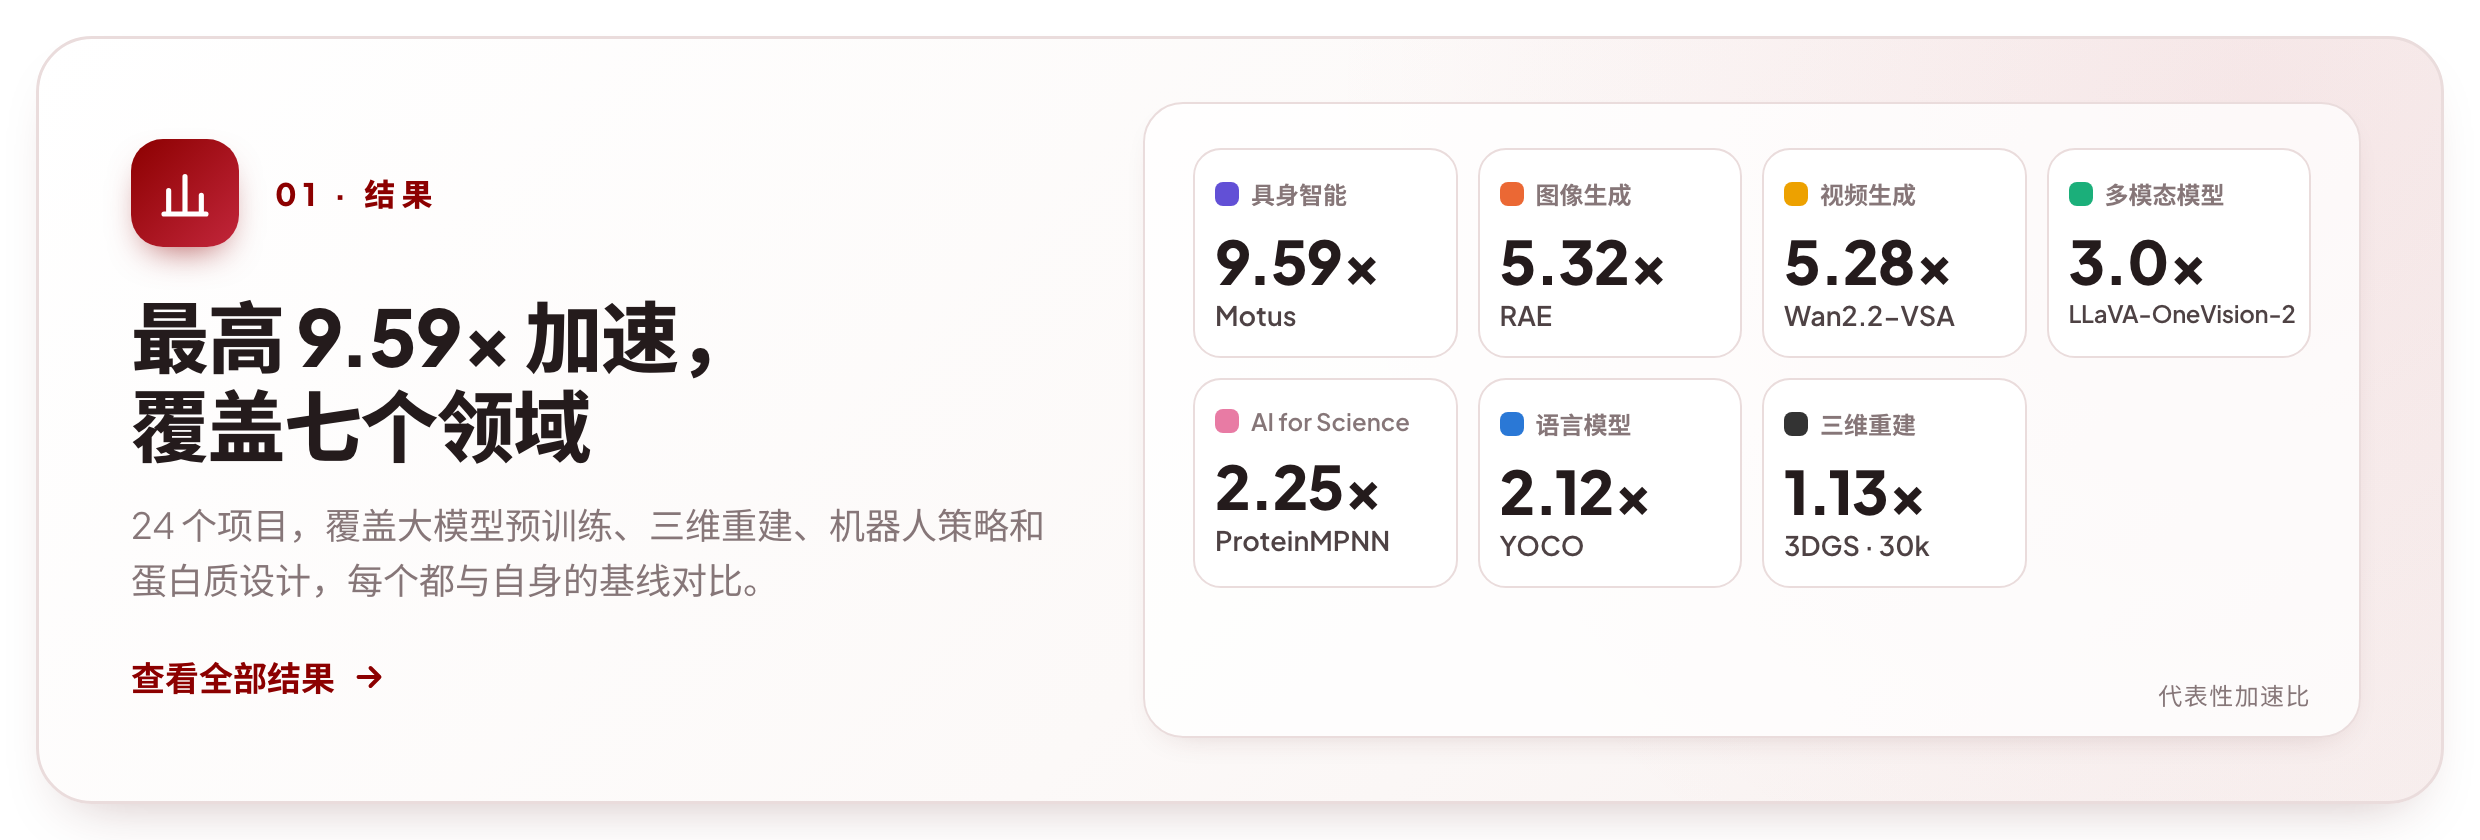
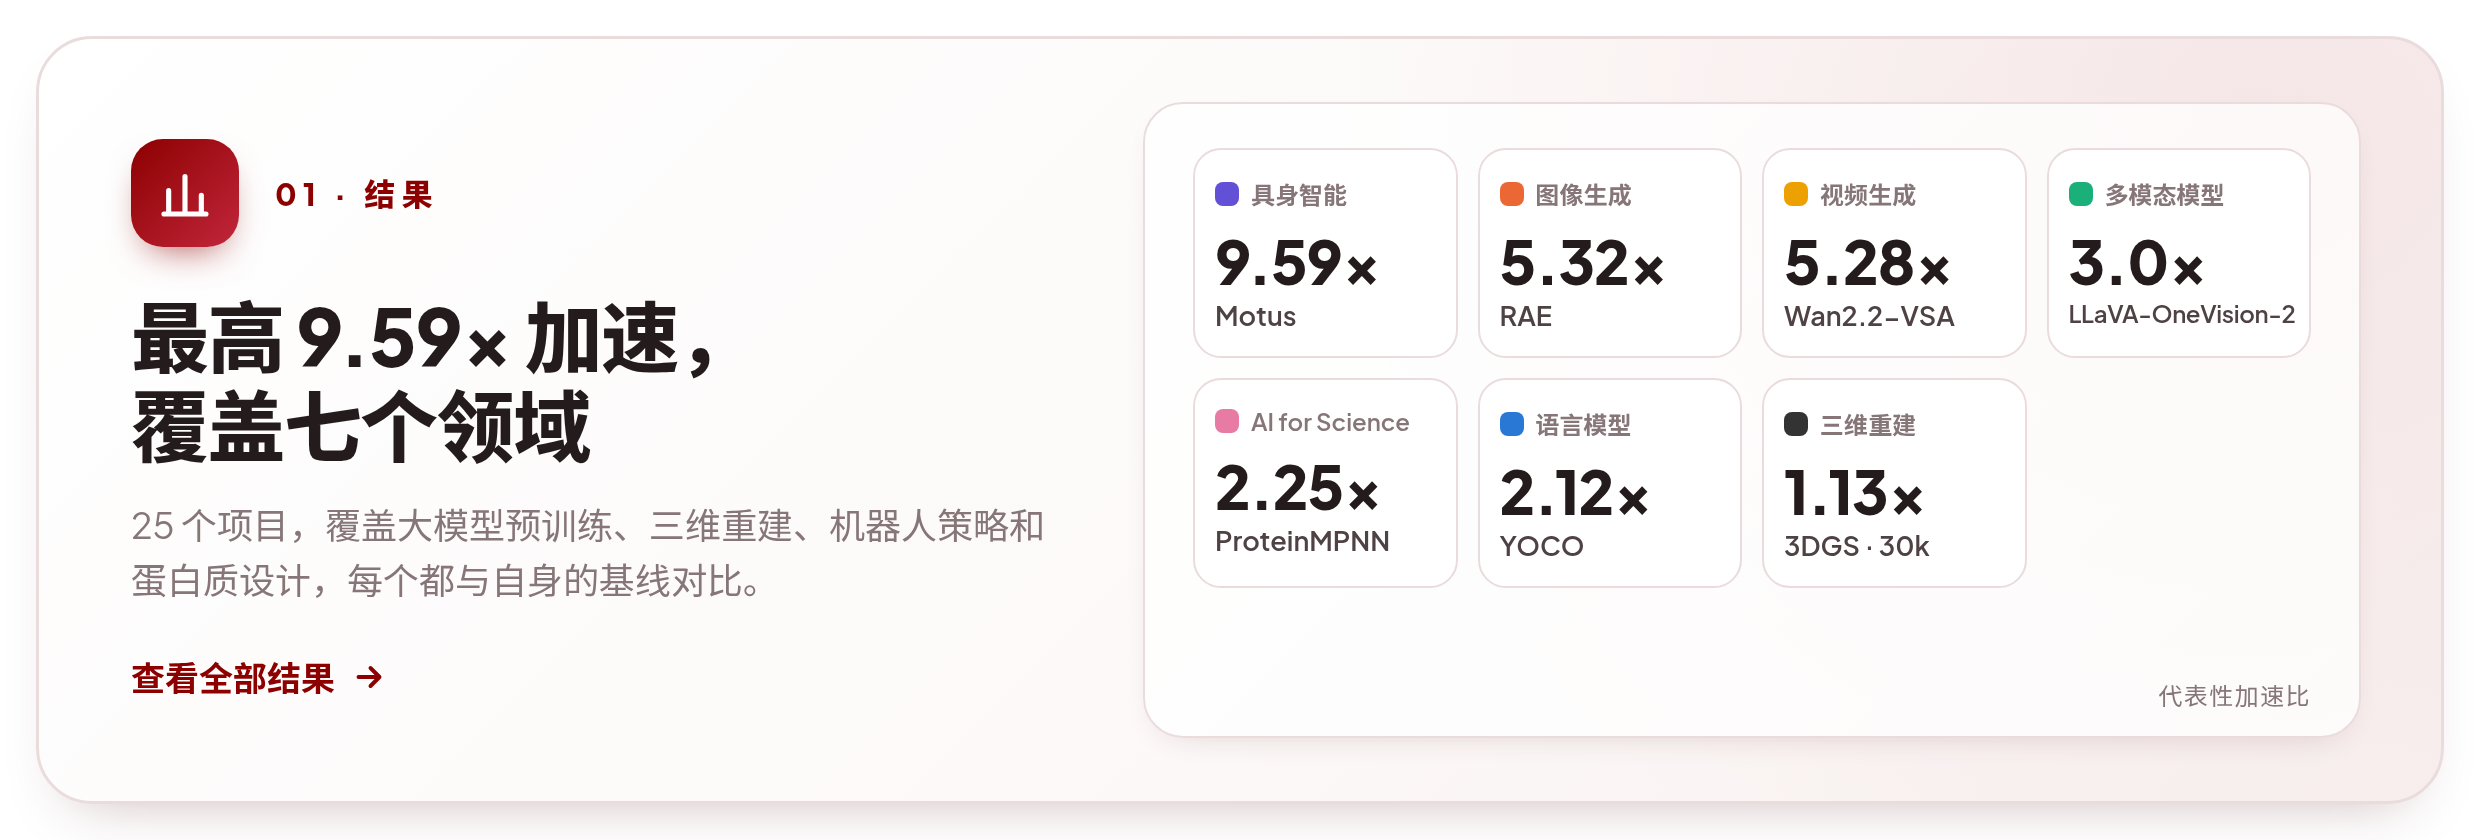
docs: add Faster-SuperMimic to results and leaderboard (#20)
Official SuperMimic (HybridRobotics/supermimic + mjlab_research) training, 1.38x
(0.0852 -> 0.0617 s/iteration), statistical judge PASS, 20k-iteration end-to-end training reproduced.

diff --git a/docs/assets/readme/render.py b/docs/assets/readme/render.py
@@ -58,7 +58,7 @@ T = {
                     ("bench-blog", "book", "Read the blog post", "light")],
         "cards": [
             ("results", "chart", "01 · RESULTS", "Up to 9.59× faster,<br>across seven domains",
-             "24 projects, from LLM pretraining to 3D reconstruction, robot policies and protein design, each measured against its own baseline.",
+             "25 projects, from LLM pretraining to 3D reconstruction, robot policies and protein design, each measured against its own baseline.",
              "See all results"),
             ("prompt", "terminal", "02 · ONE PROMPT", "Paste one prompt,<br>get a verified speedup",
              "Open Codex or Claude Code on a GPU host. The agent finds the code, asks only what is yours to decide, and does the rest.",
@@ -134,7 +134,7 @@ T = {
                     ("bench-blog", "book", "阅读博客", "light")],
         "cards": [
             ("results", "chart", "01 · 结果", "最高 9.59× 加速，<br>覆盖七个领域",
-             "24 个项目，覆盖大模型预训练、三维重建、机器人策略和蛋白质设计，每个都与自身的基线对比。",
+             "25 个项目，覆盖大模型预训练、三维重建、机器人策略和蛋白质设计，每个都与自身的基线对比。",
              "查看全部结果"),
             ("prompt", "terminal", "02 · 一段提示词", "粘贴一段话，<br>拿到验证过的加速",
              "在 GPU 主机上打开 Codex 或 Claude Code。agent 自己找到代码，只问需要你决定的事，其余全部自己完成。",

diff --git a/docs/figures/make_results_overview.py b/docs/figures/make_results_overview.py
@@ -45,13 +45,14 @@ PROJECTS = [
     ("LLM2Vec", "llm", 1.6009, "1.60×", False, "stat"),
     ("JiT", "img", 1.56, "1.56×", False, "stat"),
     ("Protenix", "sci", 1.5524, "1.55×", False, "manual"),
+    ("SuperMimic", "emb", 1.3821, "1.38×", False, "stat"),
     ("FermiNet", "sci", 1.252, "1.25×", False, "bitwise"),
     ("NanoChat", "llm", 1.20, "1.20×", False, "stat"),
     ("3DGS", "3d", 1.1314, "1.13×", False, "task"),
 ]
 
 # Projects contributed by the community; the leaderboard marks them with a people icon.
-COMMUNITY = {"NanoChat", "LLM2Vec", "MiniMax-H3", "Wan2.2-VSA", "SANA-WM", "OpenWAM", "LLaVA-OneVision-2", "ProteinMPNN", "Protenix", "FermiNet", "PIDG (module)", "3DGS"}
+COMMUNITY = {"NanoChat", "LLM2Vec", "MiniMax-H3", "Wan2.2-VSA", "SANA-WM", "OpenWAM", "LLaVA-OneVision-2", "ProteinMPNN", "Protenix", "FermiNet", "PIDG (module)", "3DGS", "SuperMimic"}
 
 # (name, domain, baseline, optimized, unit-formatted labels, speedup label, estimate?, en/zh scope, en/zh quality)
 SHOWCASE = [

diff --git a/README.md b/README.md
@@ -30,6 +30,7 @@
 
 ## News
 
+- <img src="https://img.shields.io/badge/COMMUNITY-1BAF7A?style=flat-square" alt="COMMUNITY" height="18"> **2026-11-25** · **[Faster-SuperMimic](https://github.com/hwbhwbhwb/Faster-SuperMimic)** by [@hwbhwbhwb](https://github.com/hwbhwbhwb): **1.38×** on SuperMimic world-model + BPTT training over 40 LAFAN1 clips, statistical judge PASS; a 20k-iteration training run matches the original (benchmark return 0.862 vs 0.860).
 - <img src="https://img.shields.io/badge/COMMUNITY-1BAF7A?style=flat-square" alt="COMMUNITY" height="18"> **2026-11-25** · **[G-STAR](https://github.com/DAGroup-PKU/G-STAR)**, an autoregressive text-to-image model that represents images as grouped discrete tokens at 32× / 64× compression, merged RBA's inference speedups upstream ([G-STAR#2](https://github.com/DAGroup-PKU/G-STAR/pull/2)): **6.18×** per image for G-STAR-Pro-8B with its one-step refiner, **2.73×** with the 52-step refiner and **2.72×** for G-STAR-Flash-1.7B on one H200, with bit-identical image codes.
 - <img src="https://img.shields.io/badge/COMMUNITY-1BAF7A?style=flat-square" alt="COMMUNITY" height="18"> **2026-11-24** · **[Faster-Wan22-VSA-MUSA](https://github.com/JoeyXuquant11/Faster-Wan22-VSA-MUSA)** and **[Faster-SANA-WM-MUSA](https://github.com/JoeyXuquant11/Faster-SANA-WM-MUSA)** by [@JoeyXuquant11](https://github.com/JoeyXuquant11): **5.28×** on Wan2.2-TI2V-5B + VSA fine-tuning and **4.85×** on SANA-WM Stage-1 training, on Moore Threads MTT S5000, our **first cases beyond NVIDIA GPUs**. Thanks [@JoeyXuquant11](https://github.com/JoeyXuquant11)!
 - <img src="https://img.shields.io/badge/UPDATE-0891B2?style=flat-square" alt="UPDATE" height="18"> **2026-11-22** · **Gemini 4 Neon, Carbon and Hydrogen** join the [RSI-Infra Bench leaderboard](https://ai4ai-for-anything.github.io/blog/rsi-infra-bench/leaderboard/index.html), now 13 models: Gemini 4 Neon ranks first with 43.19, ahead of Claude Opus 5.5 (40.00); Hydrogen and Carbon rank fourth and fifth. Traces of all 24 runs are on the leaderboard site.
@@ -57,7 +58,7 @@
 
 ## Highlights
 
-<a href="#results"><img src="docs/assets/readme/card-results-en.png" alt="Up to 9.59× faster across seven research domains: 24 projects, each measured against its own baseline." width="100%"></a>
+<a href="#results"><img src="docs/assets/readme/card-results-en.png" alt="Up to 9.59× faster across seven research domains: 25 projects, each measured against its own baseline." width="100%"></a>
 
 <a href="#quick-start"><img src="docs/assets/readme/card-prompt-en.png" alt="Paste one prompt into Codex or Claude Code; the agent finds the code, asks only what is yours to decide, and does the rest." width="100%"></a>
 
@@ -67,7 +68,7 @@
 
 ## Results
 
-<a href="https://ai4ai-for-anything.github.io/#research"><img src="docs/figures/results-overview.svg" alt="All 24 projects ranked by speedup over their own baselines, from 9.59× (Motus) to 1.13× (3DGS), with how each was validated" width="100%"></a>
+<a href="https://ai4ai-for-anything.github.io/#research"><img src="docs/figures/results-overview.svg" alt="All 25 projects ranked by speedup over their own baselines, from 9.59× (Motus) to 1.13× (3DGS), with how each was validated" width="100%"></a>
 
 <img src="docs/figures/results-time.svg" alt="Baseline vs optimized time for six projects, such as Motus fine-tuning from 7.47 s to 0.78 s per iteration and the RoboTwin benchmark from 73.5 h to 16.8 h" width="100%">
 
@@ -129,7 +130,7 @@ Open a domain for the workloads, or the reports for experiment settings and vali
 </details>
 
 <details>
-<summary><strong>Embodied AI</strong> · 4 projects — RoboTwin, Motus, FastWAM, OpenWAM</summary>
+<summary><strong>Embodied AI</strong> · 5 projects — RoboTwin, Motus, FastWAM, OpenWAM, SuperMimic</summary>
 
 | Project | Workload | Speedup |
 |---|---|---:|
@@ -137,6 +138,7 @@ Open a domain for the workloads, or the reports for experiment settings and vali
 | [Faster-Motus](https://github.com/AI4AI-for-Anything/Faster-Motus) | RoboTwin 2.0 fine-tuning · 27,244 episodes | **9.59×** |
 | [Faster-FastWAM](https://github.com/AI4AI-for-Anything/Faster-FastWAM) | FastWAM-LIBERO training recipe | **3.46×** |
 | [OpenWAM](https://github.com/OpenWAM-Official/OpenWAM#training-acceleration) by [@GONGSHUKAI](https://github.com/GONGSHUKAI) | OpenWAM-α fine-tuning · seven SFT benchmarks · merged upstream | **2.54–2.77×** |
+| [Faster-SuperMimic](https://github.com/hwbhwbhwb/Faster-SuperMimic) by [@hwbhwbhwb](https://github.com/hwbhwbhwb) | SuperMimic world-model + BPTT training · 40 LAFAN1 clips | **1.38×** |
 
 [Measurement setup & validation →](docs/results/embodied-ai.md)
 
@@ -249,7 +251,7 @@ The quick start does this for you. By hand: read [AGENTS.md](AGENTS.md) and [doc
 
 | Path | Contents |
 |---|---|
-| [`docs/results/`](docs/results) | Results from 24 projects, grouped by domain, with measurement scope and validation records |
+| [`docs/results/`](docs/results) | Results from 25 projects, grouped by domain, with measurement scope and validation records |
 | [`docs/`](docs) | [Methodology](docs/methodology.md), [the judge](docs/judge.md), [goal mode](docs/goal-mode.md), [running a task](docs/run-a-task.md), [lessons from four tasks](docs/lessons.md) |
 | [`goal/`](goal) | Running one Codex or Claude Code `/goal` session on claw-orchestrator: the task scaffold, the sandbox, model access for both engines, run / status / steer / resume scripts and the final check, the watchdog, the brief for the formulating and supervising agent |
 | [`numerics/`](numerics) | The equivalence component every task judge copies and freezes: recording, bitwise and tiered comparison, paired-seed trajectories, the task adapter base class, a self-test |

diff --git a/README.zh-CN.md b/README.zh-CN.md
@@ -30,6 +30,7 @@
 
 ## 动态
 
+- <img src="https://img.shields.io/badge/社区-1BAF7A?style=flat-square" alt="社区" height="18"> **2026-11-25** · **[Faster-SuperMimic](https://github.com/hwbhwbhwb/Faster-SuperMimic)**，来自 [@hwbhwbhwb](https://github.com/hwbhwbhwb)：SuperMimic 世界模型 + BPTT 训练（40 段 LAFAN1）加速 **1.38×**，统计评测通过；2 万次迭代的完整训练与原版一致（基准回报 0.862，原版 0.860）。
 - <img src="https://img.shields.io/badge/社区-1BAF7A?style=flat-square" alt="社区" height="18"> **2026-11-25** · **[G-STAR](https://github.com/DAGroup-PKU/G-STAR)** 是一个自回归文生图模型，用分组的离散 token 表示图像，压缩率 32× / 64×。它已把 RBA 的推理加速合进上游（[G-STAR#2](https://github.com/DAGroup-PKU/G-STAR/pull/2)）：单张 H200 上每张图，G-STAR-Pro-8B 配一步 refiner 加速 **6.18×**，配 52 步 refiner 加速 **2.73×**，G-STAR-Flash-1.7B 加速 **2.72×**，图像 code 逐位一致。
 - <img src="https://img.shields.io/badge/社区-1BAF7A?style=flat-square" alt="社区" height="18"> **2026-11-24** · **[Faster-Wan22-VSA-MUSA](https://github.com/JoeyXuquant11/Faster-Wan22-VSA-MUSA)** 和 **[Faster-SANA-WM-MUSA](https://github.com/JoeyXuquant11/Faster-SANA-WM-MUSA)**，来自 [@JoeyXuquant11](https://github.com/JoeyXuquant11)：在摩尔线程 MTT S5000 上，Wan2.2-TI2V-5B + VSA 微调加速 **5.28×**，SANA-WM Stage-1 训练加速 **4.85×**，是**第一批 NVIDIA GPU 以外的案例**。感谢 [@JoeyXuquant11](https://github.com/JoeyXuquant11)！
 - <img src="https://img.shields.io/badge/更新-0891B2?style=flat-square" alt="更新" height="18"> **2026-11-22** · **Gemini 4 Neon、Carbon 和 Hydrogen** 加入 [RSI-Infra Bench 排行榜](https://ai4ai-for-anything.github.io/blog/rsi-infra-bench/leaderboard/index.html)，现有 13 个模型：Gemini 4 Neon 以 43.19 分排第一，高于 Claude Opus 5.5（40.00）；Hydrogen 和 Carbon 分列第四、第五。24 次运行的 trace 都在排行榜网站上。
@@ -57,7 +58,7 @@
 
 ## 亮点
 
-<a href="#已有结果"><img src="docs/assets/readme/card-results-zh.png" alt="最高 9.59× 加速，覆盖七个研究领域：24 个项目，每个都与自身的基线对比。" width="100%"></a>
+<a href="#已有结果"><img src="docs/assets/readme/card-results-zh.png" alt="最高 9.59× 加速，覆盖七个研究领域：25 个项目，每个都与自身的基线对比。" width="100%"></a>
 
 <a href="#快速开始"><img src="docs/assets/readme/card-prompt-zh.png" alt="在 Codex 或 Claude Code 里粘贴一段话；agent 自己找到代码，只问需要你决定的事，其余全部自己完成。" width="100%"></a>
 
@@ -67,7 +68,7 @@
 
 ## 已有结果
 
-<a href="https://ai4ai-for-anything.github.io/#research"><img src="docs/figures/results-overview.zh-CN.svg" alt="24 个项目按相对自身基线的加速比排名，从 9.59×（Motus）到 1.13×（3DGS），附验证方式" width="100%"></a>
+<a href="https://ai4ai-for-anything.github.io/#research"><img src="docs/figures/results-overview.zh-CN.svg" alt="25 个项目按相对自身基线的加速比排名，从 9.59×（Motus）到 1.13×（3DGS），附验证方式" width="100%"></a>
 
 <img src="docs/figures/results-time.zh-CN.svg" alt="6 个项目的基线与优化后耗时对比，例如 Motus 微调每次迭代从 7.47 s 降到 0.78 s，RoboTwin 完整评测从 73.5 h 降到 16.8 h" width="100%">
 
@@ -129,7 +130,7 @@
 </details>
 
 <details>
-<summary><strong>具身智能</strong> · 4 个项目 — RoboTwin, Motus, FastWAM, OpenWAM</summary>
+<summary><strong>具身智能</strong> · 5 个项目 — RoboTwin, Motus, FastWAM, OpenWAM, SuperMimic</summary>
 
 | 项目 | 工作负载 | 加速比 |
 |---|---|---:|
@@ -137,6 +138,7 @@
 | [Faster-Motus](https://github.com/AI4AI-for-Anything/Faster-Motus) | RoboTwin 2.0 微调 | **9.59×** |
 | [Faster-FastWAM](https://github.com/AI4AI-for-Anything/Faster-FastWAM) | FastWAM-LIBERO 训练 | **3.46×** |
 | [OpenWAM](https://github.com/OpenWAM-Official/OpenWAM#training-acceleration)（[@GONGSHUKAI](https://github.com/GONGSHUKAI) 贡献） | OpenWAM-α 微调 · 7 个 SFT 基准 · 已合入上游 | **2.54–2.77×** |
+| [Faster-SuperMimic](https://github.com/hwbhwbhwb/Faster-SuperMimic)（[@hwbhwbhwb](https://github.com/hwbhwbhwb) 贡献） | SuperMimic 世界模型 + BPTT 训练 · 40 段 LAFAN1 | **1.38×** |
 
 [实验设置与验证记录（英文） →](docs/results/embodied-ai.md)
 
@@ -249,7 +251,7 @@ Codex 用 `codex --enable default_mode_request_user_input` 启动时会弹出提
 
 | 路径 | 内容 |
 |---|---|
-| [`docs/results/`](docs/results) | 24 个项目的分类报告、测量范围与验证记录（英文） |
+| [`docs/results/`](docs/results) | 25 个项目的分类报告、测量范围与验证记录（英文） |
 | [`docs/`](docs) | 英文文档：[方法](docs/methodology.md)、[评测](docs/judge.md)、[goal 模式](docs/goal-mode.md)、[任务运行指南](docs/run-a-task.md)、[四个任务的经验](docs/lessons.md) |
 | [`goal/`](goal) | 在 claw-orchestrator 上运行 Codex 或 Claude Code `/goal` 会话的工具：建任务目录的脚本、沙箱、两种引擎的模型访问配置、启动 / 查看状态 / 发送提醒 / 恢复运行的脚本和最终评测、监控脚本，以及任务准备和监督 agent 的说明 |
 | [`numerics/`](numerics) | 各任务评测复制并固定版本的数值等价性检查组件：数据记录、逐位和分级比对、配对随机种子的训练轨迹比对、任务适配器基类及自测 |

diff --git a/docs/results/embodied-ai.md b/docs/results/embodied-ai.md
@@ -2,7 +2,7 @@
 
 [← All results](README.md) · [ResearchBoost-Agent](../../README.md#results)
 
-4 projects · [RoboTwin](#faster-robotwin) · [Motus](#faster-motus) · [FastWAM](#faster-fastwam) · [OpenWAM](#openwam)
+5 projects · [RoboTwin](#faster-robotwin) · [Motus](#faster-motus) · [FastWAM](#faster-fastwam) · [OpenWAM](#openwam) · [SuperMimic](#faster-supermimic)
 
 ## Faster-RoboTwin
 
@@ -63,3 +63,18 @@ LIBERO overall success: 96.90% for Faster-FastWAM and 97.15% for the released ch
 The original `main` recomputed every layer (all-layer gradient checkpointing); the measured configuration used no checkpointing and no 80 GiB memory cap, so the speedups include the recomputation it avoids. Each change was kept only if training stayed bitwise identical to `main` or within its seed-to-seed variation. LIBERO success after a full Sim-LIBERO fine-tuning run with the speed preset: 99.05%, against 99.2% for the released OpenWAM-Alpha-Sim-LIBERO checkpoint under the same evaluation. OpenWAM now loads the speed preset by default and keeps all-layer checkpointing on by default.
 
 [Code & project README ↗](https://github.com/OpenWAM-Official/OpenWAM#training-acceleration) · [Pull request & review ↗](https://github.com/OpenWAM-Official/OpenWAM/pull/58)
+
+## Faster-SuperMimic
+
+**SuperMimic world-model + BPTT training · 40 LAFAN1 clips** · by [@hwbhwbhwb](https://github.com/hwbhwbhwb)
+
+| Item | Result |
+|---|---|
+| Speedup | **1.38×** |
+| Hardware | 1 × GPU |
+| Measurement scope | 0.0852 → 0.0617 s/iteration, steady state (reference → candidate → reference) |
+| Validation | Statistical judge PASS · 20k-iteration training reproduced |
+
+The official [SuperMimic](https://github.com/HybridRobotics/supermimic) with [mjlab_research](https://github.com/HybridRobotics/mjlab_research), task `SuperMimic-GenCoord-G1` on 4096 MuJoCo Warp envs, code defaults. Nine commits remove host syncs in the env step, replay sampling and normalizers, compile and horizontally fuse small kernels, skip unread observation groups and align a TF32 GEMM; precision, simulator and random-draw order are unchanged. The reference itself is not bitwise reproducible across processes, so the judge compares 20 training endpoints of an 800-iteration run against six reference seeds (largest deviation 1.53σ). Trained for 20,000 iterations with two seeds per arm and evaluated with the original code on all 40 clips, the benchmark return is 0.860 for the original and 0.862 for the optimized code.
+
+[Code & project README ↗](https://github.com/hwbhwbhwb/Faster-SuperMimic) · [Detailed evidence ↗](https://github.com/hwbhwbhwb/Faster-SuperMimic/blob/main/docs/measurement.md)

diff --git a/docs/results/README.md b/docs/results/README.md
@@ -2,7 +2,7 @@
 
 [← ResearchBoost-Agent](../../README.md#results)
 
-**24 projects · 7 research domains**
+**25 projects · 7 research domains**
 
 Each report includes the workload, hardware, timing and validation results, with links to the project’s code and experiments.
 
@@ -12,7 +12,7 @@ Each report includes the workload, hardware, timing and validation results, with
 | MLLM | LLaVA, BAGEL, R3, [LLaVA-OneVision-2](https://github.com/EvolvingLMMs-Lab/LLaVA-OneVision-2) by [@GONGSHUKAI](https://github.com/GONGSHUKAI) | [Open report](multimodal.md) |
 | Image Generation | [G-STAR](https://github.com/DAGroup-PKU/G-STAR), RAE, DMD2, JiT | [Open report](image-generation.md) |
 | Video Generation | [Wan2.2-VSA](https://github.com/JoeyXuquant11/Faster-Wan22-VSA-MUSA) by [@JoeyXuquant11](https://github.com/JoeyXuquant11), [SANA-WM](https://github.com/JoeyXuquant11/Faster-SANA-WM-MUSA) by [@JoeyXuquant11](https://github.com/JoeyXuquant11), Self-Forcing, [MiniMax-H3](https://github.com/2018cx/Faster-MiniMax-H3) by [@2018cx](https://github.com/2018cx) | [Open report](video-generation.md) |
-| Embodied AI | RoboTwin, Motus, FastWAM, [OpenWAM](https://github.com/OpenWAM-Official/OpenWAM) by [@GONGSHUKAI](https://github.com/GONGSHUKAI) | [Open report](embodied-ai.md) |
+| Embodied AI | RoboTwin, Motus, FastWAM, [OpenWAM](https://github.com/OpenWAM-Official/OpenWAM) by [@GONGSHUKAI](https://github.com/GONGSHUKAI), [SuperMimic](https://github.com/hwbhwbhwb/Faster-SuperMimic) by [@hwbhwbhwb](https://github.com/hwbhwbhwb) | [Open report](embodied-ai.md) |
 | AI for Science | [ProteinMPNN](https://github.com/micky-li-hd/Faster-ProteinMPNN) by [@micky-li-hd](https://github.com/micky-li-hd), [Protenix](https://github.com/micky-li-hd/Faster-Protenix) by [@micky-li-hd](https://github.com/micky-li-hd), [FermiNet](https://github.com/sen-ye/faster-ferminet) by [@sen-ye](https://github.com/sen-ye) | [Open report](ai4s.md) |
 | 3D Reconstruction | [Original 3DGS](https://github.com/HaoqinHong/Physics-Informed-Deformable-Gaussian-Splatting-ResearchBoost) by [@HaoqinHong](https://github.com/HaoqinHong), [PIDG](https://github.com/HaoqinHong/Physics-Informed-Deformable-Gaussian-Splatting-ResearchBoost) by [@HaoqinHong](https://github.com/HaoqinHong) | [Open report](3d-reconstruction.md) |
 
